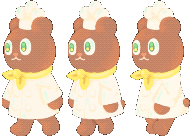
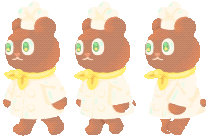
wider walk anim

diff --git a/src/scenes/load.js b/src/scenes/load.js
@@ -18,11 +18,11 @@ class LoadScene extends Phaser.Scene {
             frameHeight: 136
         });
         this.load.spritesheet('walkleft', './assets/walkleft_sheet.png', {
-            frameWidth: 64,
+            frameWidth: 70,
             frameHeight: 136
         });
         this.load.spritesheet('walkright', './assets/walkright_sheet.png', {
-            frameWidth: 64,
+            frameWidth: 70,
             frameHeight: 136
         });
 
